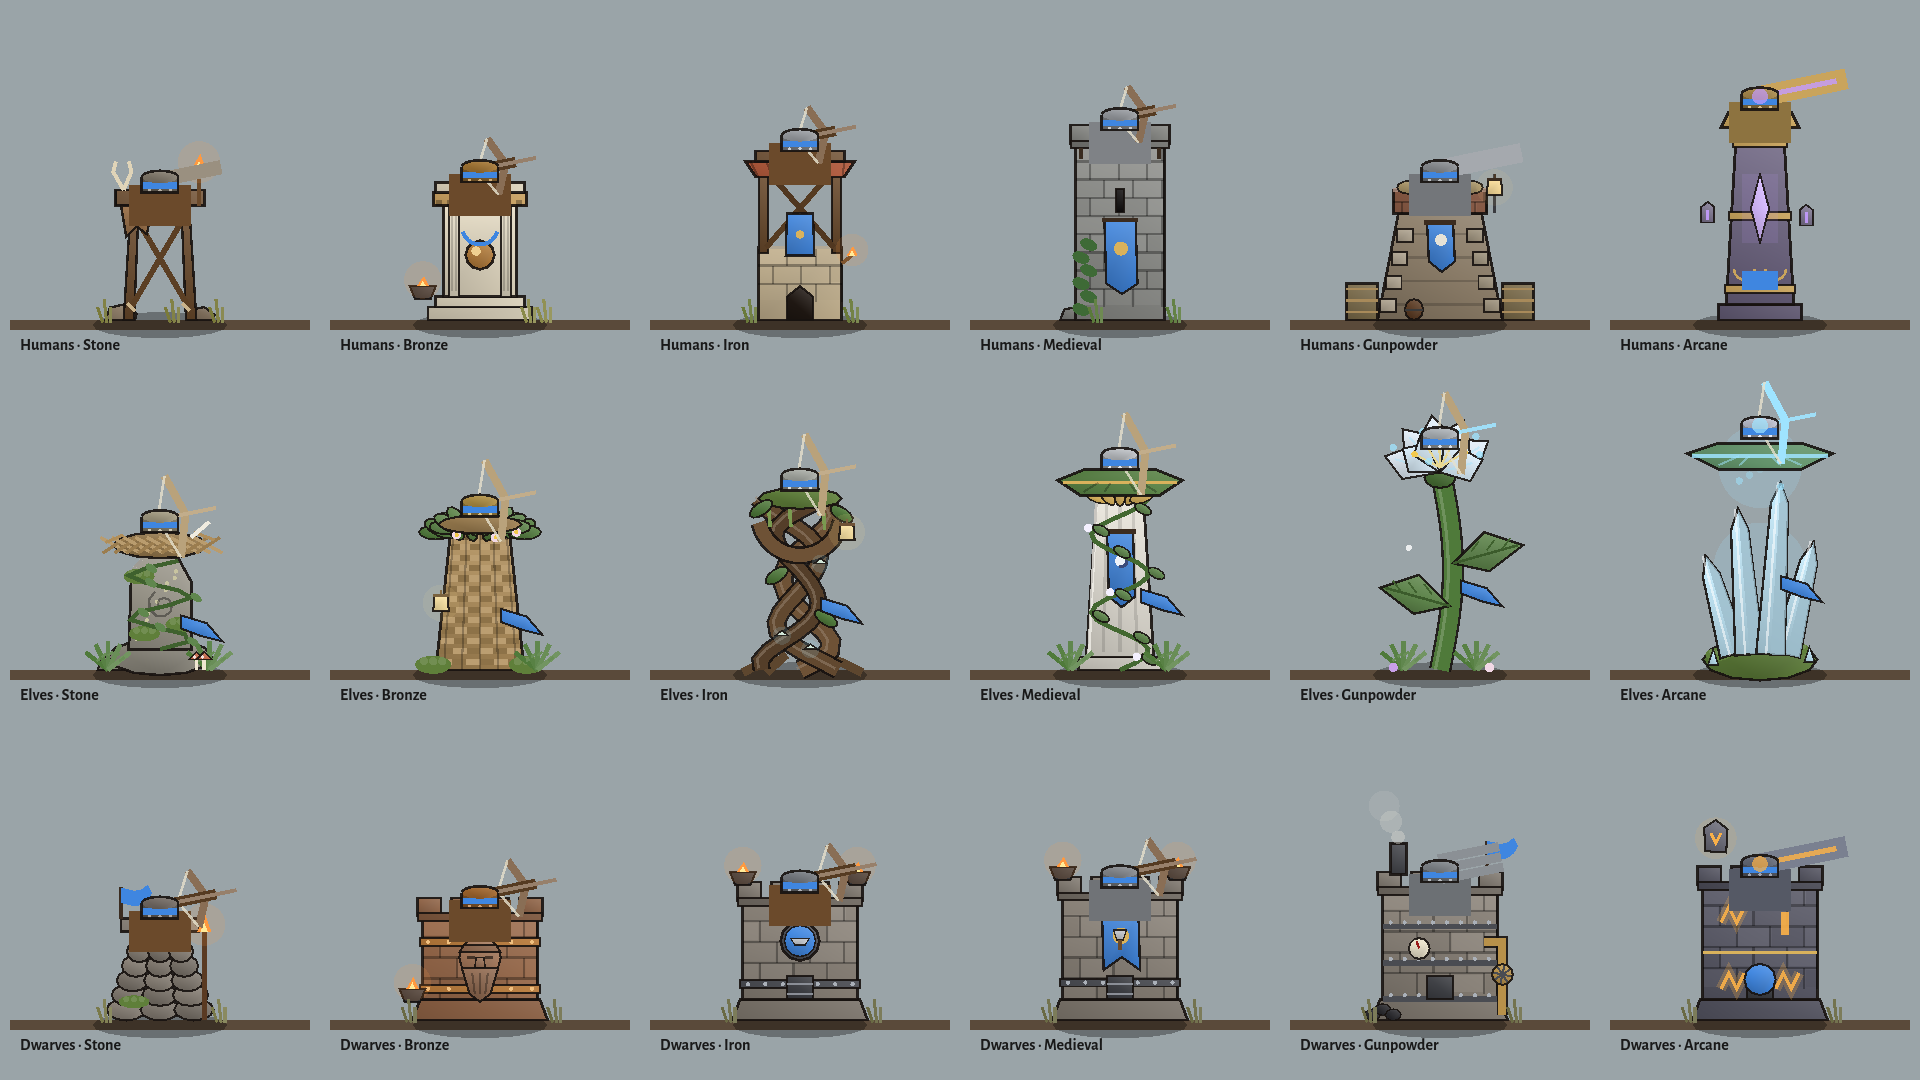
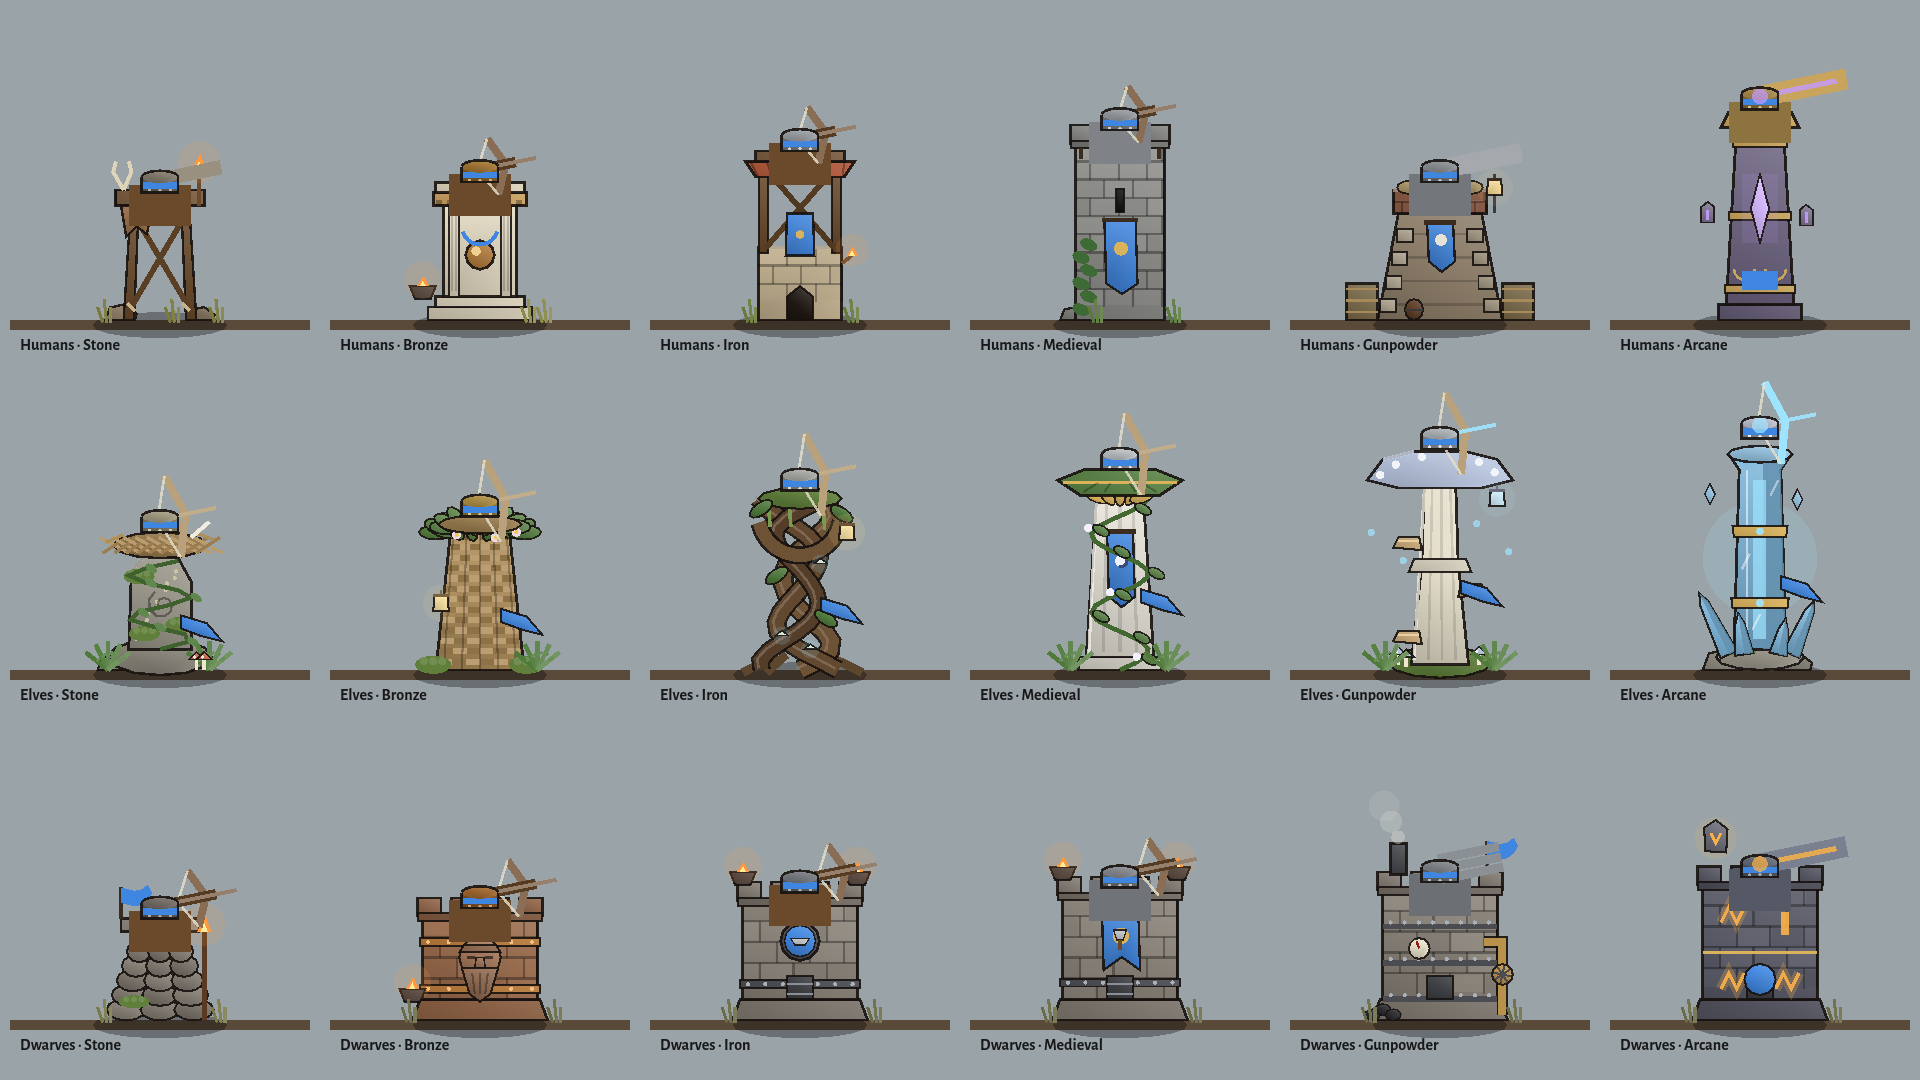
Elven Gunpowder and Arcane towers: moon-mushroom and crystal spire
The flower and the floating-leaf crystal bloom left the turret perched
on something flimsy. Gunpowder is now a giant pale mushroom (ringed
stalk, shelf-fungus steps, a broad cap with glowing gills and a lantern)
and Arcane a flat-topped faceted crystal pillar on a mossy stone with
gilt bands, shards at its foot and orbiting motes.

Claude-Session: https://claude.ai/code/session_01NbqpH9Xk4DuDkhjQFEReGc

Changed region(s): [[0.875, 0.3972, 0.9688, 0.6417], [0.7188, 0.3972, 0.8125, 0.6417]]

diff --git a/docs/PLAN.md b/docs/PLAN.md
@@ -113,7 +113,7 @@ Until painted parts exist (M2), everything is drawn procedurally with canvas cal
 | `scripts/view/world_layer.gd` | Bases, turrets, units, corpses (pooled nodes for per-corpse fade), HP bars, rally and front markers |
 | `scripts/view/art/race_look.gd` | Races (GDD §5.7): body proportions, skin/hair, magic colour, clothing palettes per age and the style of every unit slot per race. Names come from `data/races/*.tres` (`RaceDef`); the sim only carries the race id on `SimSide` |
 | `scripts/view/art/unit_art.gd` | Modular rigs (humanoid with race proportions, rider on boar/horse/stag/elk/ram/bear, chariot, ram, catapult, ballista, trebuchet, cannon, steam tank, golem, treant, sky cannon, obelisk) dressed per race and unit slot; walk phase from distance walked (no foot sliding), attack poses with anticipation → contact → recovery, hit flash, secondary motion on plumes/manes |
-| `scripts/view/art/base_art.gd` | Bases drawn in two passes: static architecture (masonry courses, planks, roofs, slits) rendered once per race, age and team into a cached SubViewport texture; banners, fire, smoke and night-lit windows drawn live. One base per race and age (human forts, elven tree-halls, dwarven mountain holds; `tools/base_gallery.gd`); turrets stand on their own towers on the ground in front of the gate (one per slot, styled by race and the turret's age — elven ones grown or woven from nature: mossy stone and nest, wicker, braided roots, vine-bound column, great flower, crystal bloom — drawn behind the units), so base art never has to leave room for mounts; damage states (cracks, fire), rebuild-on-evolve; turrets per kind and age with aim and recoil |
+| `scripts/view/art/base_art.gd` | Bases drawn in two passes: static architecture (masonry courses, planks, roofs, slits) rendered once per race, age and team into a cached SubViewport texture; banners, fire, smoke and night-lit windows drawn live. One base per race and age (human forts, elven tree-halls, dwarven mountain holds; `tools/base_gallery.gd`); turrets stand on their own towers on the ground in front of the gate (one per slot, styled by race and the turret's age — elven ones grown or woven from nature: mossy stone and nest, wicker, braided roots, vine-bound column, moon-mushroom, crystal spire — drawn behind the units), so base art never has to leave room for mounts; damage states (cracks, fire), rebuild-on-evolve; turrets per kind and age with aim and recoil |
 | `scripts/view/art/tower_art.gd` | Turret towers per race and age, ink-outlined and shaded with props (lanterns, braziers, banners, moss, rocks); turrets sit on a swivel drum on top. Close-up review: `tools/base_gallery.gd -- --towers` |
 | `scripts/view/art/scenery.gd`, `backdrop.gd`, `shaders/split_backdrop.gdshader` | Parallax scenery per race and age (GDD §4.1: human lands, elven forests, dwarven mountains), the split battlefield blended at the front line with a ragged brush seam, and the painterly dissolve when a side evolves |
 | `scripts/view/art/front_layer.gd` | In front of the lane, split at the seam like the backdrop: weather per race and age (dust motes, fireflies, gulls, petals and falling leaves, drizzle, storm rain with splashes, snow, ash and rising embers, arcane sparks) as stateless time-driven particles, plus foreground props on a faster parallax for depth |
